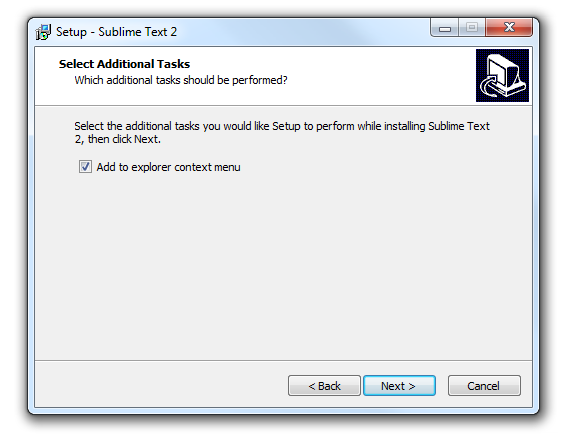
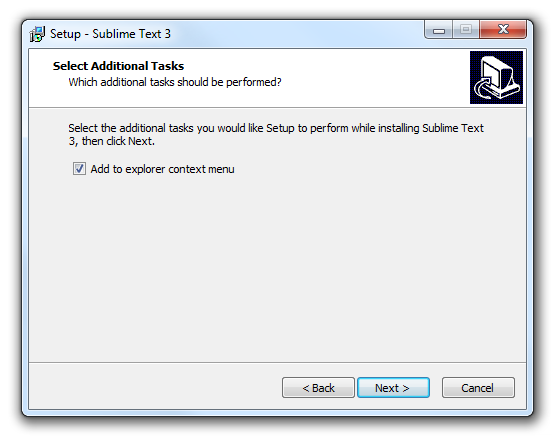
Switched to using Sublime Text 3 vs 2
Replaced all text mentions of Sublime Text 2, and also all screenshots.

Changed region(s): [[0.0, 0.0295, 0.9784, 0.9728]]

diff --git a/Week 0/Installing Sublime Text 3 on Mac.md b/Week 0/Installing Sublime Text 3 on Mac.md
@@ -1,0 +1,29 @@
+## Installing Sublime Text 3 on Mac
+
+This guide is focused on how to install the Sublime Text 3 text editor on a Mac.
+
+### Background
+
+We will be using Sublime Text 3 as a code editor. Think of it as a souped-up version of TextEdit that will make writing code a lot easier.
+
+We chose Sublime Text 3 because it is available for both Macs and Windows machines, and it will be the editor that we will be using to demonstrate in class. Other similar alternatives for Macs are [TextWrangler](http://www.barebones.com/products/textwrangler/), and [Atom](https://atom.io/).
+
+### Install Guide
+
+Navigate to the [Sublime Text website](http://www.sublimetext.com/). Click on the "Download for OS X" link.
+
+![sublime_text_windows_install](../images/sublime_text_mac_install.png)
+
+It should download a file called "Sublime Text Build 3114.dmg" to your Downloads folder. When it is done downloading, double-click on this file to begin the installation process.
+
+The installation process if very fast, and if it is successful you should see this window. Drag the Sublime Text icon into the Applications icon to complete the installation procedure.
+
+![sublime_mac_install_success](../images/sublime_mac_install_success.png)
+
+### Sublime Text License
+
+After several times saving files in Sublime Text, you may encounter the following dialog window:
+
+![sublime_license](../images/sublime_license.png)
+
+The version we just installed is considered free for evaluation, even though all features are enabled. You can click OK to purchase a license, or you can simple click Cancel in perpetuity since this "trial" has no time limit.

diff --git a/Week 0/Installing Sublime Text 3 on Windows.md b/Week 0/Installing Sublime Text 3 on Windows.md
@@ -1,16 +1,16 @@
-## Installing Sublime Text 2 on Windows
+## Installing Sublime Text 3 on Windows
 
-This guide is focused on how to install the Sublime Text 2 text editor on a Windows machine.
+This guide is focused on how to install the Sublime Text 3 text editor on a Windows machine.
 
 ### Background
 
-We will be using Sublime Text 2 as a code editor. Think of it as a souped-up version of Notepad that will make writing code a lot easier.
+We will be using Sublime Text 3 as a code editor. Think of it as a souped-up version of Notepad that will make writing code a lot easier.
 
-We chose Sublime Text 2 because it is available for both Macs and Windows machines, and it will be the editor that we will be using to demonstrate in class. Other similar alternatives for Windows computers are [Notepad++](https://notepad-plus-plus.org/), and [Atom](https://atom.io/).
+We chose Sublime Text 3 because it is available for both Macs and Windows machines, and it will be the editor that we will be using to demonstrate in class. Other similar alternatives for Windows computers are [Notepad++](https://notepad-plus-plus.org/), and [Atom](https://atom.io/).
 
 ### Install Guide
 
-Navigate to the [Sublime Text website](http://www.sublimetext.com/2). Click on the "Windows 64 bit" link.
+Navigate to the [Sublime Text website](http://www.sublimetext.com/). Click on the "Download for Windows" link.
 
 ![sublime_text_windows_installer](../images/sublime_text_windows_installer.png)
 

diff --git a/Week 0/README.md b/Week 0/README.md
@@ -6,8 +6,8 @@ Before we begin our class, we would like everyone to have Python 3 installed on 
 
 [Installing Miniconda on Windows](Installing miniconda on Windows.md)
 
-We will also need a text editor to create and edit Python script files. We will be using Sublime Text 2 as the text editor that we will be demonstrating with in class.
+We will also need a text editor to create and edit Python script files. We will be using Sublime Text 3 as the text editor that we will be demonstrating with in class.
 
-[Installing Sublime Text 2 on Mac](Installing Sublime Text 2 on Mac.md)
+[Installing Sublime Text on Mac](Installing Sublime Text on Mac.md)
 
-[Installing Sublime Text 2 on Windows](Installing Sublime Text 2  on Windows.md)
+[Installing Sublime Text on Windows](Installing Sublime Text on Windows.md)
